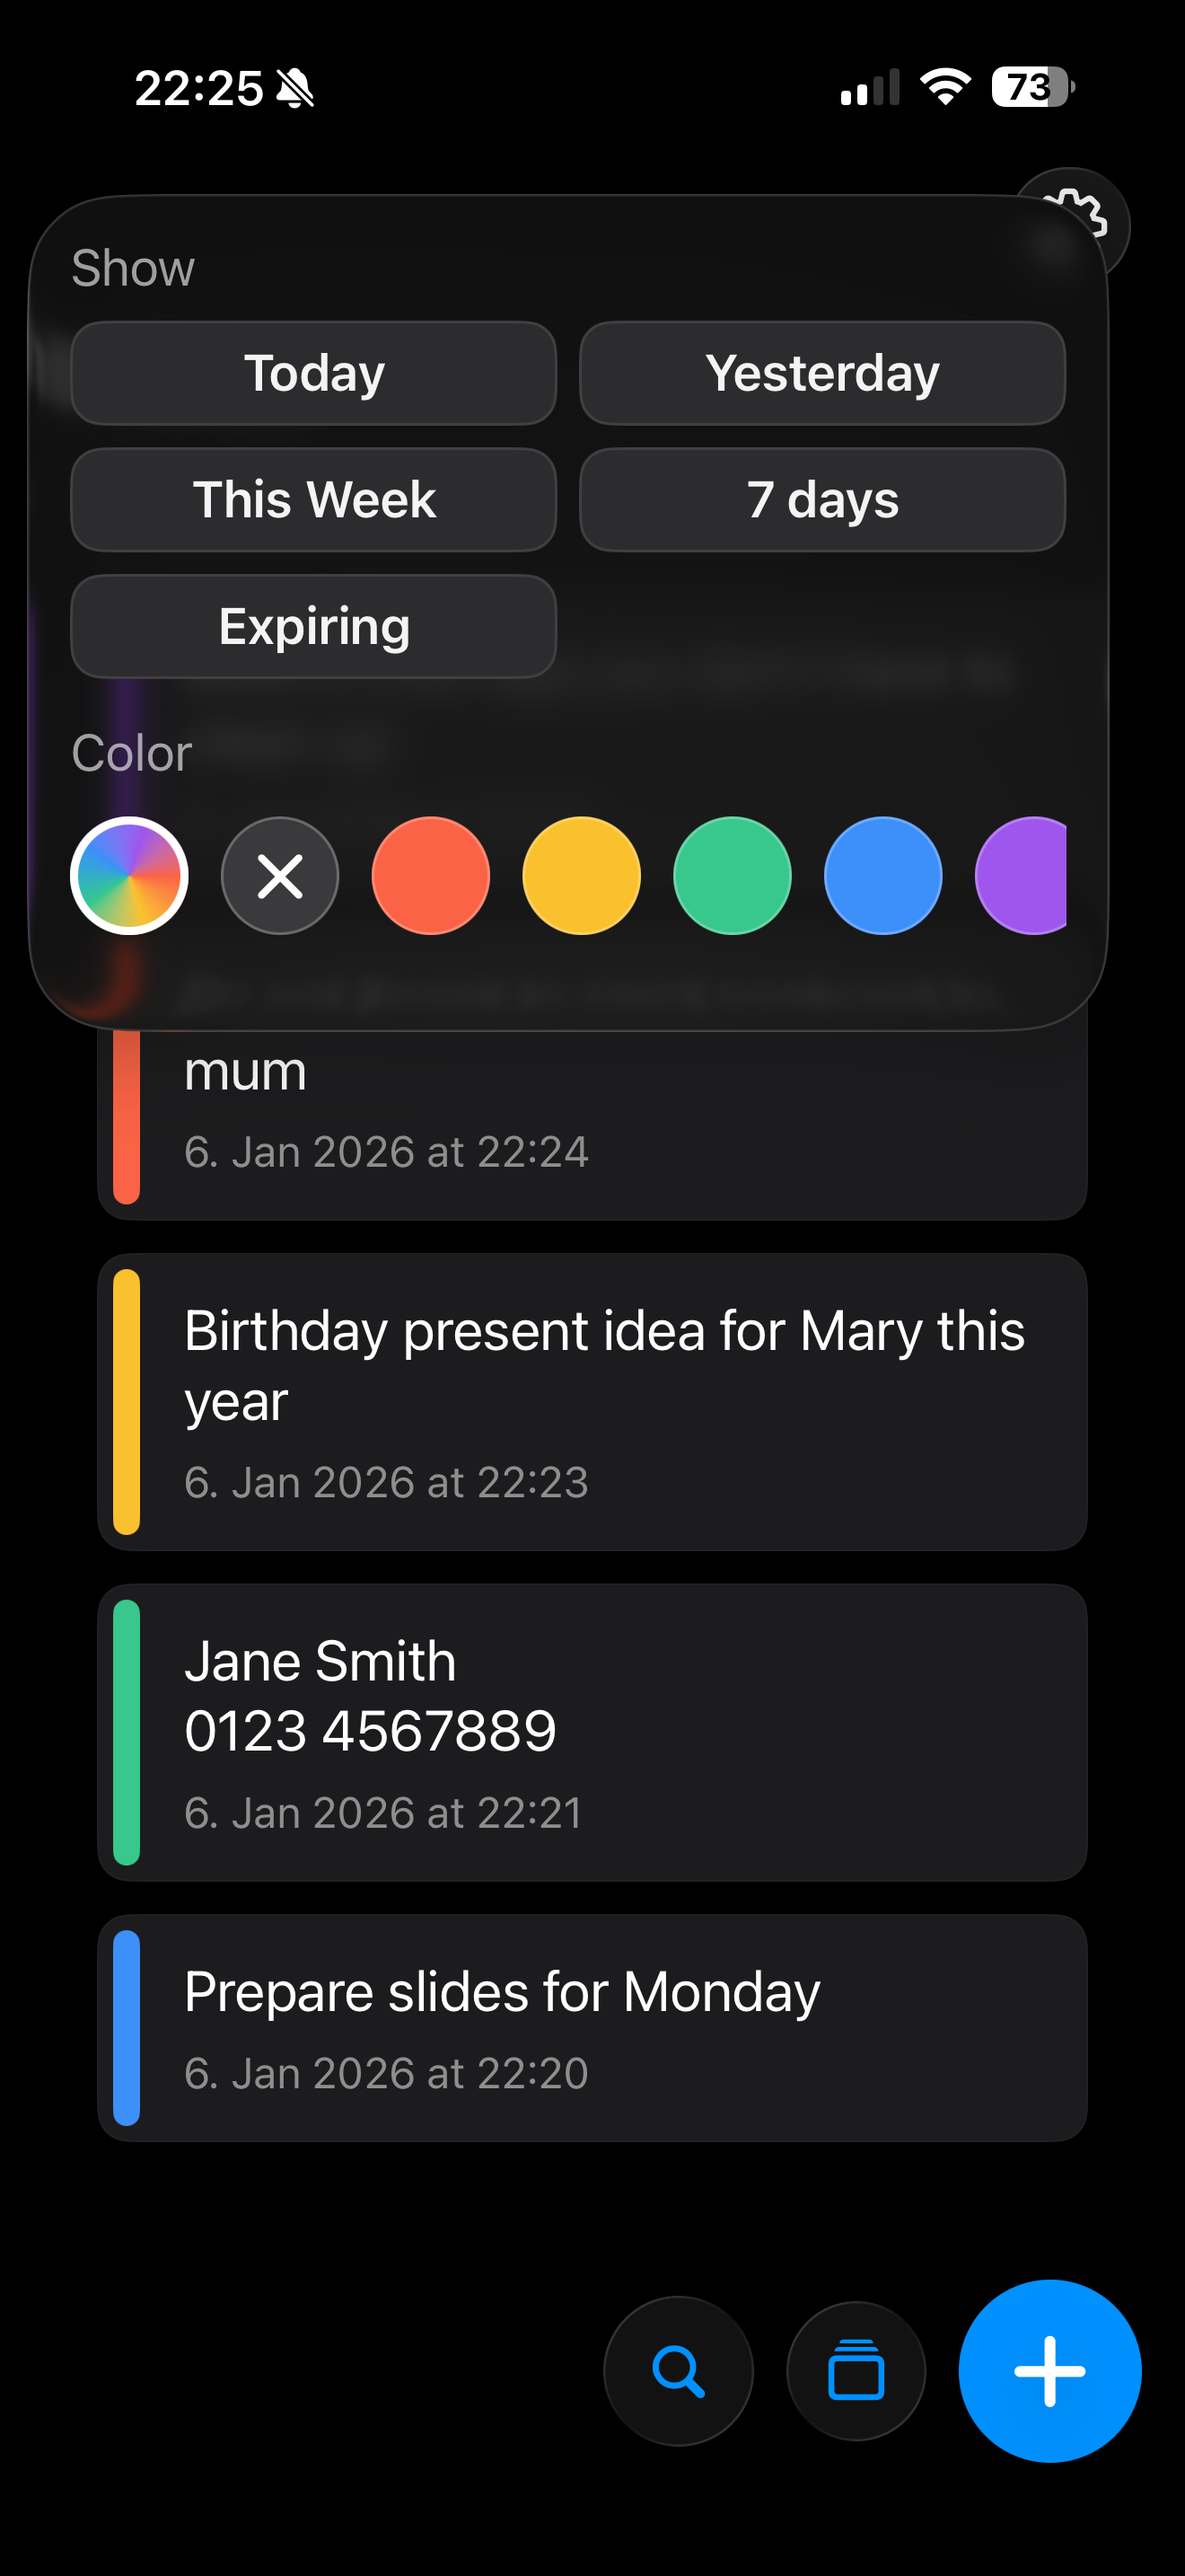
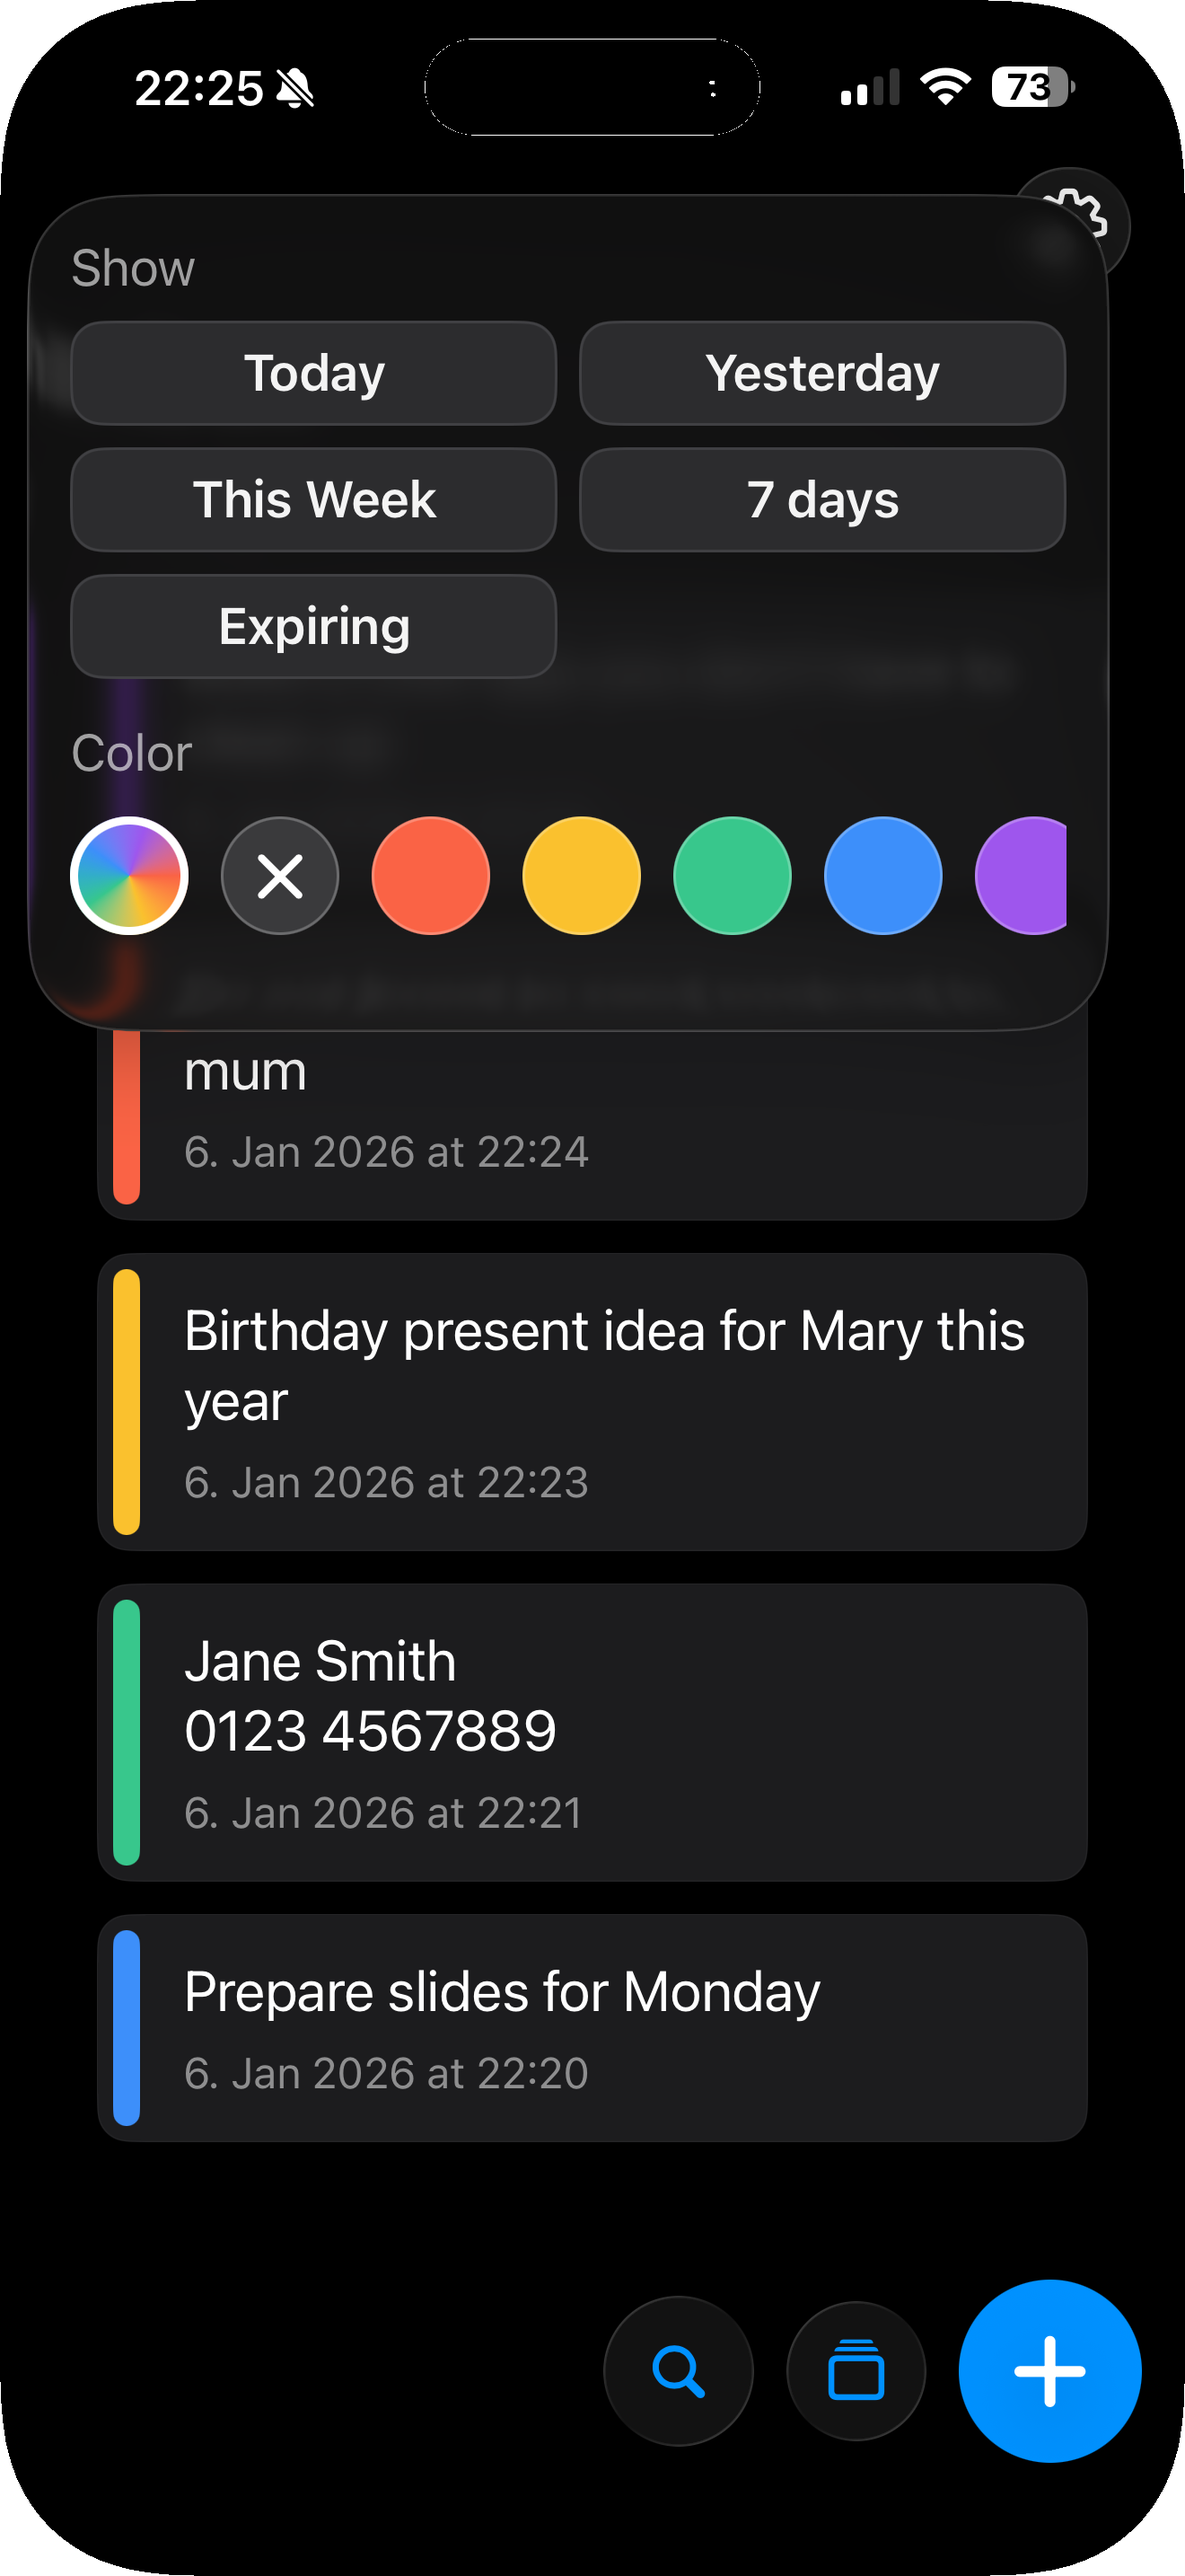
Add bezels and masked screenshots

diff --git a/index.html b/index.html
@@ -206,21 +206,59 @@
             align-items: center;
         }
 
-        .screenshot {
+        .device-frame {
+            position: relative;
             width: 280px;
-            height: auto;
-            border-radius: 20px;
-            box-shadow: 0 20px 60px rgba(0, 0, 0, 0.2);
+            aspect-ratio: 1424 / 2956;
+            box-shadow: none;
+            --screen-left: 3.65%;
+            --screen-top: 1.49%;
+            --screen-width: 92.7%;
+            --screen-height: 97%;
+        }
+
+        .device-frame.light {
+        }
+
+        .device-frame.dark {
+        }
+
+        .device-screen {
+            position: absolute;
+            width: var(--screen-width);
+            height: var(--screen-height);
+            left: var(--screen-left);
+            top: var(--screen-top);
+            overflow: hidden;
+            z-index: 1;
+            display: block;
+        }
+
+        .device-shot {
+            display: block;
+            width: 100%;
+            height: 100%;
+            object-fit: cover;
+        }
+
+        .device-bezel {
+            position: absolute;
+            left: -1.62%;
+            top: -0.74%;
+            width: 103.23%;
+            height: 101.49%;
+            pointer-events: none;
+            z-index: 2;
         }
 
         @media (prefers-color-scheme: dark) {
-            .screenshot.light {
+            .device-frame.light {
                 display: none;
             }
         }
 
         @media (prefers-color-scheme: light) {
-            .screenshot.dark {
+            .device-frame.dark {
                 display: none;
             }
         }
@@ -370,7 +408,7 @@
             <img src="assets/AppIcon-iOS-Default-256x256@2x.png" alt="Jotio App Icon" class="app-icon light">
             <img src="assets/AppIcon-iOS-Dark-256x256@2x.png" alt="Jotio App Icon" class="app-icon dark">
             <h1>Jotio</h1>
-            <p class="tagline">Think. Capture. Move On.</p>
+            <p class="tagline">Capture. Review. Move On.</p>
             <div class="cta-button coming-soon">Coming Soon</div>
         </div>
     </section>
@@ -388,8 +426,18 @@
                     <p>Jot down ideas in seconds with the quick capture field. Pick a color dot to instantly organize your thought—no typing categories, no choosing folders. Just tap, type, and move on. Perfect for capturing fleeting ideas before they disappear.</p>
                 </div>
                 <div class="feature-image">
-                    <img src="assets/screenshots/capture-light.PNG" alt="Jotio Capture Feature" class="screenshot light">
-                    <img src="assets/screenshots/capture-dark.PNG" alt="Jotio Capture Feature" class="screenshot dark">
+                    <div class="device-frame light">
+                        <div class="device-screen">
+                            <img src="assets/screenshots/capture-light.PNG" alt="Jotio Capture Feature" class="device-shot">
+                        </div>
+                        <img src="assets/bezels/iphone-16-pro-max-white-portrait.png" alt="" class="device-bezel" aria-hidden="true">
+                    </div>
+                    <div class="device-frame dark">
+                        <div class="device-screen">
+                            <img src="assets/screenshots/capture-dark.PNG" alt="Jotio Capture Feature" class="device-shot">
+                        </div>
+                        <img src="assets/bezels/iphone-16-pro-max-black-portrait.png" alt="" class="device-bezel" aria-hidden="true">
+                    </div>
                 </div>
             </div>
 
@@ -400,8 +448,18 @@
                     <p>Your inbox fills with colorful notes that are easy to scan at a glance. Filter by color to focus on what matters right now—work tasks, personal reminders, or quick ideas. No folders. No tags. No notebooks. Just simple, visual organization that actually works.</p>
                 </div>
                 <div class="feature-image">
-                    <img src="assets/screenshots/organize-light.PNG" alt="Jotio Organize Feature" class="screenshot light">
-                    <img src="assets/screenshots/organize-dark.PNG" alt="Jotio Organize Feature" class="screenshot dark">
+                    <div class="device-frame light">
+                        <div class="device-screen">
+                            <img src="assets/screenshots/organize-light.PNG" alt="Jotio Organize Feature" class="device-shot">
+                        </div>
+                        <img src="assets/bezels/iphone-16-pro-max-white-portrait.png" alt="" class="device-bezel" aria-hidden="true">
+                    </div>
+                    <div class="device-frame dark">
+                        <div class="device-screen">
+                            <img src="assets/screenshots/organize-dark.PNG" alt="Jotio Organize Feature" class="device-shot">
+                        </div>
+                        <img src="assets/bezels/iphone-16-pro-max-black-portrait.png" alt="" class="device-bezel" aria-hidden="true">
+                    </div>
                 </div>
             </div>
 
@@ -412,8 +470,18 @@
                     <p>Swipe through a delightful stack of cards. Flip through your notes to evaluate ideas, or swipe to decide what to do with each one. Share what needs action. Delete what's done. Keep what still matters. Let the rest fade away naturally.</p>
                 </div>
                 <div class="feature-image">
-                    <img src="assets/screenshots/review-light.PNG" alt="Jotio Review Feature" class="screenshot light">
-                    <img src="assets/screenshots/review-dark.PNG" alt="Jotio Review Feature" class="screenshot dark">
+                    <div class="device-frame light">
+                        <div class="device-screen">
+                            <img src="assets/screenshots/review-light.PNG" alt="Jotio Review Feature" class="device-shot">
+                        </div>
+                        <img src="assets/bezels/iphone-16-pro-max-white-portrait.png" alt="" class="device-bezel" aria-hidden="true">
+                    </div>
+                    <div class="device-frame dark">
+                        <div class="device-screen">
+                            <img src="assets/screenshots/review-dark.PNG" alt="Jotio Review Feature" class="device-shot">
+                        </div>
+                        <img src="assets/bezels/iphone-16-pro-max-black-portrait.png" alt="" class="device-bezel" aria-hidden="true">
+                    </div>
                 </div>
             </div>
 
@@ -424,8 +492,18 @@
                     <p>Notes you haven't revisited in 30 days quietly disappear. No guilt. No clutter. Your inbox stays light, your mind stays clear. The secret to mental clarity: thoughts that matter temporarily, not forever.</p>
                 </div>
                 <div class="feature-image">
-                    <img src="assets/screenshots/cleanup-light.PNG" alt="Jotio Smart Cleanup Feature" class="screenshot light">
-                    <img src="assets/screenshots/cleanup-dark.PNG" alt="Jotio Smart Cleanup Feature" class="screenshot dark">
+                    <div class="device-frame light">
+                        <div class="device-screen">
+                            <img src="assets/screenshots/cleanup-light.PNG" alt="Jotio Smart Cleanup Feature" class="device-shot">
+                        </div>
+                        <img src="assets/bezels/iphone-16-pro-max-white-portrait.png" alt="" class="device-bezel" aria-hidden="true">
+                    </div>
+                    <div class="device-frame dark">
+                        <div class="device-screen">
+                            <img src="assets/screenshots/cleanup-dark.PNG" alt="Jotio Smart Cleanup Feature" class="device-shot">
+                        </div>
+                        <img src="assets/bezels/iphone-16-pro-max-black-portrait.png" alt="" class="device-bezel" aria-hidden="true">
+                    </div>
                 </div>
             </div>
         </div>
